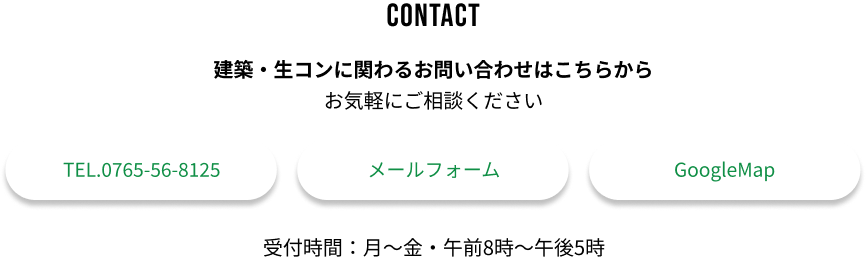
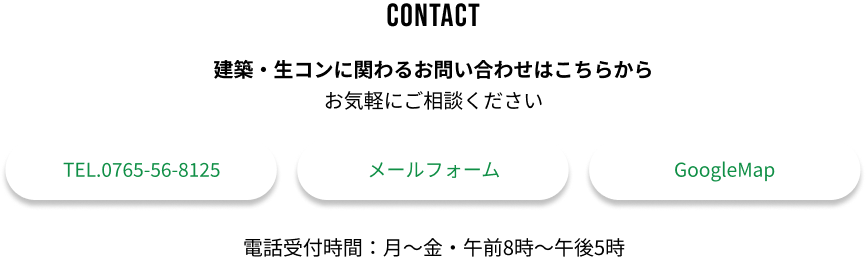
Adjust project carousel and contact assets

Changed region(s): [[0.2806, 0.9027, 0.7171, 1.0]]

diff --git a/index.html b/index.html
@@ -83,12 +83,28 @@
                 <img src="img/p01.png" alt="" />
                 <img src="img/p02.png" alt="" />
               </div>
+              <div class="carousel__group" aria-hidden="true">
+                <img src="img/p01.png" alt="" />
+                <img src="img/p02.png" alt="" />
+              </div>
+              <div class="carousel__group" aria-hidden="true">
+                <img src="img/p01.png" alt="" />
+                <img src="img/p02.png" alt="" />
+              </div>
             </div>
           </div>
 
           <div class="carousel carousel--right" aria-label="Project carousel bottom">
             <div class="carousel__track">
               <div class="carousel__group">
+                <img src="img/p04.png" alt="" />
+                <img src="img/p05.png" alt="" />
+              </div>
+              <div class="carousel__group" aria-hidden="true">
+                <img src="img/p04.png" alt="" />
+                <img src="img/p05.png" alt="" />
+              </div>
+              <div class="carousel__group" aria-hidden="true">
                 <img src="img/p04.png" alt="" />
                 <img src="img/p05.png" alt="" />
               </div>
@@ -136,7 +152,7 @@
         </section>
 
         <section class="contact-block" aria-label="Contact">
-          <img src="img/contact.png?v=20260313-1" alt="Contact" />
+          <img src="img/contact.png?v=20260313-2" alt="Contact" />
         </section>
 
         <footer class="footer-block" aria-label="Footer">

diff --git a/styles.css b/styles.css
@@ -258,7 +258,7 @@ main,
   right: 18px;
   bottom: 18px;
   z-index: 10000;
-  display: grid;
+  display: none;
   gap: 8px;
   padding: 8px;
   border-radius: 10px;
@@ -880,7 +880,7 @@ body.show-design .design-screen {
 
 .carousel__group img {
   display: block;
-  width: clamp(224px, 49.6vw, 688px);
+  width: clamp(186.6667px, 41.3333vw, 573.3333px);
   height: auto;
   border-radius: 0;
 }
